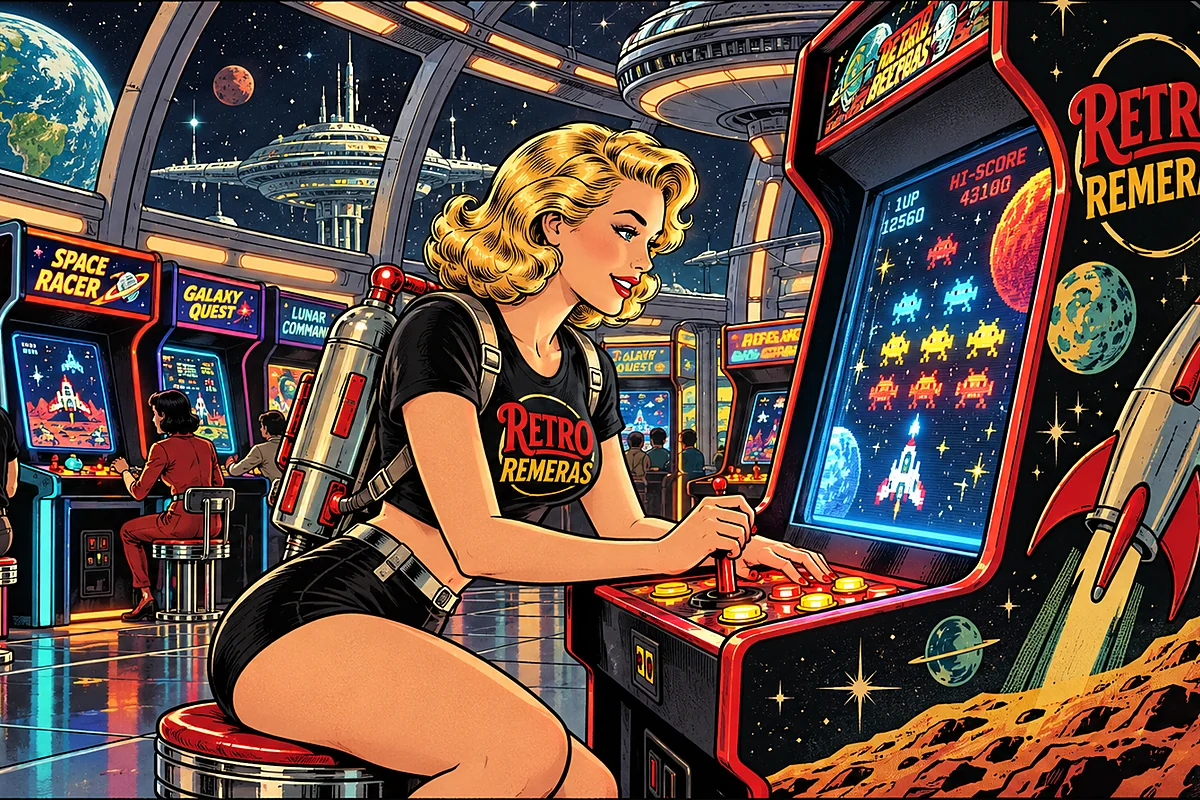
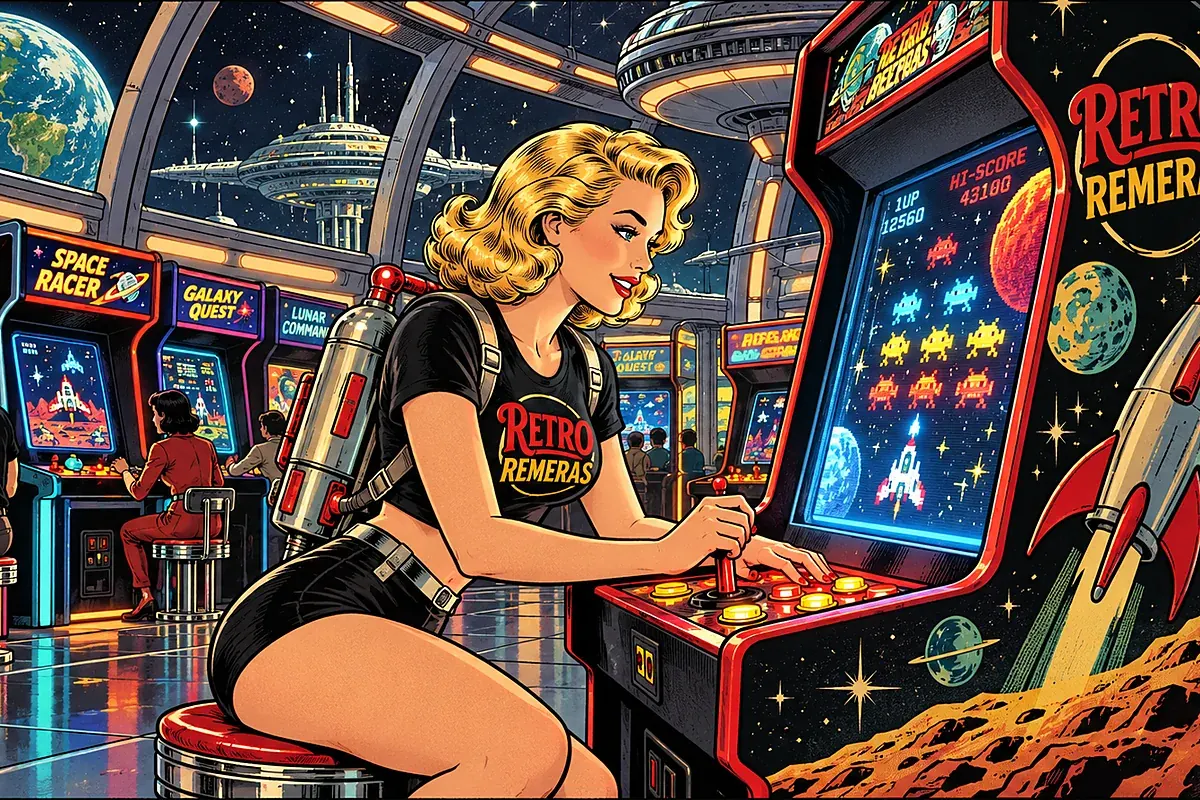
Web más rápida y liviana: fichas y colecciones estáticas, imágenes WebP
- Fichas de remera y páginas de colección se generan de antemano (ISR)
- Imágenes del sitio convertidas a WebP (44 MB -> 6 MB)
- Calidad de imágenes ajustada por uso (75/80/85)
- Las fotos que se suben desde el panel se convierten solas a WebP

Claude-Session: https://claude.ai/code/session_01A7k4dU187yWgtd1AUApKC7

Changed region(s): [[0.1542, 0.375, 0.2158, 0.4062], [0.6783, 0.7188, 0.7092, 0.75]]

diff --git a/app/api/uploads/route.ts b/app/api/uploads/route.ts
@@ -31,6 +31,25 @@ function sanitizeFileName(name: string, mimeType: string) {
   return `${base || 'image'}-${randomUUID().slice(0, 8)}${extension}`;
 }
 
+/**
+ * Convierte la imagen a WebP (formato liviano para web), máximo 1600 px de lado,
+ * respetando la orientación de la foto. Si por algo no se puede convertir,
+ * se sube el archivo original tal cual.
+ */
+async function toWebp(buffer: Buffer): Promise<Buffer | null> {
+  try {
+    const { default: sharp } = await import('sharp');
+    return await sharp(buffer)
+      .rotate()
+      .resize({ width: 1600, height: 1600, fit: 'inside', withoutEnlargement: true })
+      .webp({ quality: 82 })
+      .toBuffer();
+  } catch (error) {
+    console.error('[UPLOADS] No se pudo convertir a WebP, se sube el original', error);
+    return null;
+  }
+}
+
 function getUploadContext(value: FormDataEntryValue | null): UploadContext {
   if (value === 'home') return 'home';
   if (value === 'categories') return 'categories';
@@ -95,11 +114,16 @@ export async function POST(request: Request) {
 
     const context = getUploadContext(formData.get('context'));
     const bucket = STORAGE_BUCKETS[context];
-    const fileName = sanitizeFileName(file.name || 'image', file.type);
+
+    // Toda imagen que se sube desde el panel queda en WebP liviana.
+    const webp = await toWebp(buffer);
+    const finalBuffer = webp ?? buffer;
+    const finalType = webp ? 'image/webp' : file.type;
+    const fileName = sanitizeFileName(file.name || 'image', finalType);
 
     const { error } = await supabaseAdmin.storage
       .from(bucket)
-      .upload(fileName, buffer, { contentType: file.type, upsert: false });
+      .upload(fileName, finalBuffer, { contentType: finalType, upsert: false });
 
     if (error) {
       return jsonServerError('UPLOADS_POST', 'No se pudo subir la imagen', error);
@@ -113,7 +137,7 @@ export async function POST(request: Request) {
       entity: 'Upload',
       entityId: publicUrl,
       actorId: session.id,
-      metadata: { fileName, size: file.size, mimeType: file.type, context },
+      metadata: { fileName, size: finalBuffer.length, originalSize: file.size, mimeType: finalType, context },
     });
 
     return NextResponse.json({ path: publicUrl }, { status: 201 });

diff --git a/components/home/HeroSection.tsx b/components/home/HeroSection.tsx
@@ -63,17 +63,17 @@ export function HeroSection({ content }: Props) {
         >
           <div className="poster-stack">
             <article className="poster-main poster-frame poster-frame--featured">
-              <Image src={hero.heroMainImage} alt={hero.heroMainImageAlt} width={1100} height={1320} quality={92} sizes="(max-width: 767px) 72vw, (max-width: 1199px) 38vw, 430px" priority />
+              <Image src={hero.heroMainImage} alt={hero.heroMainImageAlt} width={1100} height={1320} quality={80} sizes="(max-width: 767px) 72vw, (max-width: 1199px) 38vw, 430px" priority />
               <div className="poster-badge">{hero.heroBadgeText}</div>
             </article>
 
             <div className="poster-side" aria-label="Diseños destacados">
               <article className="poster-main poster-frame">
-                <Image src={hero.heroSideImageOne} alt={hero.heroSideImageOneAlt} width={1100} height={1320} quality={92} sizes="(max-width: 767px) 34vw, (max-width: 1199px) 18vw, 210px" priority />
+                <Image src={hero.heroSideImageOne} alt={hero.heroSideImageOneAlt} width={1100} height={1320} quality={80} sizes="(max-width: 767px) 34vw, (max-width: 1199px) 18vw, 210px" priority />
               </article>
 
               <article className="poster-main poster-frame">
-                <Image src={hero.heroSideImageTwo} alt={hero.heroSideImageTwoAlt} width={1100} height={1320} quality={92} sizes="(max-width: 767px) 34vw, (max-width: 1199px) 18vw, 210px" priority />
+                <Image src={hero.heroSideImageTwo} alt={hero.heroSideImageTwoAlt} width={1100} height={1320} quality={80} sizes="(max-width: 767px) 34vw, (max-width: 1199px) 18vw, 210px" priority />
               </article>
             </div>
           </div>

diff --git a/app/remeras/[slug]/page.tsx b/app/remeras/[slug]/page.tsx
@@ -9,11 +9,25 @@ import { PromoBar } from '@/components/layout/PromoBar';
 import { SiteFooter } from '@/components/layout/SiteFooter';
 import { SiteHeader } from '@/components/layout/SiteHeader';
 import { ProductView } from '@/components/product/ProductView';
-import { getPublicProductBySlug } from '@/lib/product-queries';
+import { getPublicProductBySlug, getPublicProducts } from '@/lib/product-queries';
 import { getSiteContent } from '@/lib/site-content';
 import { formatPrice, normalizeImageUrl, productHref } from '@/lib/shop';
 
 export const revalidate = 60;
+
+/**
+ * Las fichas se arman de antemano (al publicar) y se actualizan solas cada
+ * 60 s: abren al instante. Una remera nueva se arma en su primera visita y
+ * desde ahí también queda lista.
+ */
+export async function generateStaticParams() {
+  try {
+    const products = await getPublicProducts();
+    return products.map((product) => ({ slug: product.slug }));
+  } catch {
+    return [];
+  }
+}
 
 type PageProps = {
   params: Promise<{ slug: string }>;

diff --git a/app/coleccion/[slug]/page.tsx b/app/coleccion/[slug]/page.tsx
@@ -13,6 +13,16 @@ import { getSiteContent } from '@/lib/site-content';
 
 export const revalidate = 60;
 
+/** Colecciones armadas de antemano: abren al instante (se actualizan cada 60 s). */
+export async function generateStaticParams() {
+  try {
+    const collections = await getCollections();
+    return collections.map((collection) => ({ slug: collection.slug }));
+  } catch {
+    return [];
+  }
+}
+
 type PageProps = {
   params: Promise<{ slug: string }>;
 };
@@ -147,7 +157,7 @@ export default async function Page({ params }: PageProps) {
                         alt={product.imagenAlt?.trim() || product.nombre}
                         width={800}
                         height={1000}
-                        quality={90}
+                        quality={75}
                         sizes="(max-width: 767px) 46vw, (max-width: 1199px) 30vw, 280px"
                       />
                       {product.destacado ? <span className="cat-visual__badge">Destacado</span> : null}

diff --git a/lib/site-content-defaults.ts b/lib/site-content-defaults.ts
@@ -153,12 +153,12 @@ export const DEFAULT_SITE_CONTENT: SiteContentData = {
   heroPrimaryButtonHref: '/productos',
   heroSecondaryButtonText: 'Cómo funciona',
   heroSecondaryButtonHref: '#como-comprar',
-  heroMainImage: '/assets/img/ejemplo-vintage.jpg',
+  heroMainImage: '/assets/img/ejemplo-vintage.webp',
   heroMainImageAlt: 'Diseño vintage destacado',
   heroBadgeText: 'Cultura pop con impronta retro',
-  heroSideImageOne: '/assets/img/remera-goku.jpg',
+  heroSideImageOne: '/assets/img/remera-goku.webp',
   heroSideImageOneAlt: 'Diseño anime destacado',
-  heroSideImageTwo: '/assets/img/ejemplo-gaming.jpg',
+  heroSideImageTwo: '/assets/img/ejemplo-gaming.webp',
   heroSideImageTwoAlt: 'Diseño videojuegos destacado',
   personalizadosData: DEFAULT_PERSONALIZADOS,
   mayoristaData: DEFAULT_MAYORISTA,

diff --git a/components/admin/AdminPanel.tsx b/components/admin/AdminPanel.tsx
@@ -130,12 +130,12 @@ const EMPTY_SITE_CONTENT_FORM: SiteContentFormState = {
   heroPrimaryButtonHref: '/productos',
   heroSecondaryButtonText: 'Cómo funciona',
   heroSecondaryButtonHref: '#como-funciona',
-  heroMainImage: '/assets/img/ejemplo-vintage.jpg',
+  heroMainImage: '/assets/img/ejemplo-vintage.webp',
   heroMainImageAlt: 'Diseño vintage destacado',
   heroBadgeText: 'Colecciones con impronta retro',
-  heroSideImageOne: '/assets/img/remera-goku.jpg',
+  heroSideImageOne: '/assets/img/remera-goku.webp',
   heroSideImageOneAlt: 'Diseño anime destacado',
-  heroSideImageTwo: '/assets/img/ejemplo-gaming.jpg',
+  heroSideImageTwo: '/assets/img/ejemplo-gaming.webp',
   heroSideImageTwoAlt: 'Diseño videojuegos destacado',
 };
 

diff --git a/components/layout/SiteFooter.tsx b/components/layout/SiteFooter.tsx
@@ -19,7 +19,7 @@ export function SiteFooter() {
       <div className="container footer-grid">
         <div>
           <Link className="brand" href="/" aria-label="Ir al inicio de Retro Remeras">
-            <Image src="/assets/logo/icono-banner.png" alt="Retro Remeras" width={64} height={64} sizes="64px" />
+            <Image src="/assets/logo/icono-banner.webp" alt="Retro Remeras" width={64} height={64} sizes="64px" />
           </Link>
           <p>
             Remeras con nostalgia y personalidad: anime, rock, videojuegos y cultura pop estampados en DTF. Sin mínimo de compra, con envíos a todo el país y atención por WhatsApp.

diff --git a/components/catalog/CatalogView.tsx b/components/catalog/CatalogView.tsx
@@ -376,7 +376,7 @@ export function CatalogView({ initialCategory, initialProducts, categories }: Pr
                             alt={product.imagenAlt?.trim() || product.nombre}
                             width={800}
                             height={1000}
-                            quality={90}
+                            quality={75}
                             sizes="(max-width: 767px) 46vw, (max-width: 1199px) 28vw, 280px"
                           />
                           {product.destacado ? (

diff --git a/components/layout/SiteHeader.tsx b/components/layout/SiteHeader.tsx
@@ -186,7 +186,7 @@ export function SiteHeader({ active }: Props) {
 
         {/* Center: logo */}
         <Link className="brand" href="/" aria-label="Ir al inicio de Retro Remeras" onClick={closeMenu}>
-          <Image src="/assets/logo/icono-banner.png" alt="Retro Remeras" width={56} height={56} sizes="56px" priority />
+          <Image src="/assets/logo/icono-banner.webp" alt="Retro Remeras" width={56} height={56} sizes="56px" priority />
         </Link>
 
         {/* Right: cart (mobile/tablet) */}

diff --git a/components/product/ProductZoom.tsx b/components/product/ProductZoom.tsx
@@ -156,7 +156,7 @@ export function ProductZoom({ src, alt, open, onClose }: Props) {
           className="pz__img"
           style={{ transform: `translate3d(${view.x}px, ${view.y}px, 0) scale(${scale})` }}
         >
-          <Image src={src} alt={alt} width={1600} height={1600} quality={94} sizes="100vw" priority draggable={false} />
+          <Image src={src} alt={alt} width={1600} height={1600} quality={85} sizes="100vw" priority draggable={false} />
         </div>
       </div>
 

diff --git a/components/admin/SiteContentEditor.tsx b/components/admin/SiteContentEditor.tsx
@@ -198,7 +198,7 @@ export function SiteContentEditor({
                 </div>
 
                 <div className="admin-visual-image-preview">
-                  {value ? <Image src={value} alt="Preview imagen hero" width={220} height={260} quality={90} /> : <span>Sin imagen</span>}
+                  {value ? <Image src={value} alt="Preview imagen hero" width={220} height={260} quality={75} /> : <span>Sin imagen</span>}
                 </div>
 
                 <label>

diff --git a/components/home/PersonalizadosMayoristaSection.tsx b/components/home/PersonalizadosMayoristaSection.tsx
@@ -71,7 +71,7 @@ export function PersonalizadosMayoristaSection() {
                   alt={card.alt}
                   width={1100}
                   height={820}
-                  quality={90}
+                  quality={75}
                   sizes="(max-width: 767px) 92vw, (max-width: 1199px) 44vw, 560px"
                 />
                 <span className="personalizados-mayorista-card__badge">{card.eyebrow}</span>
